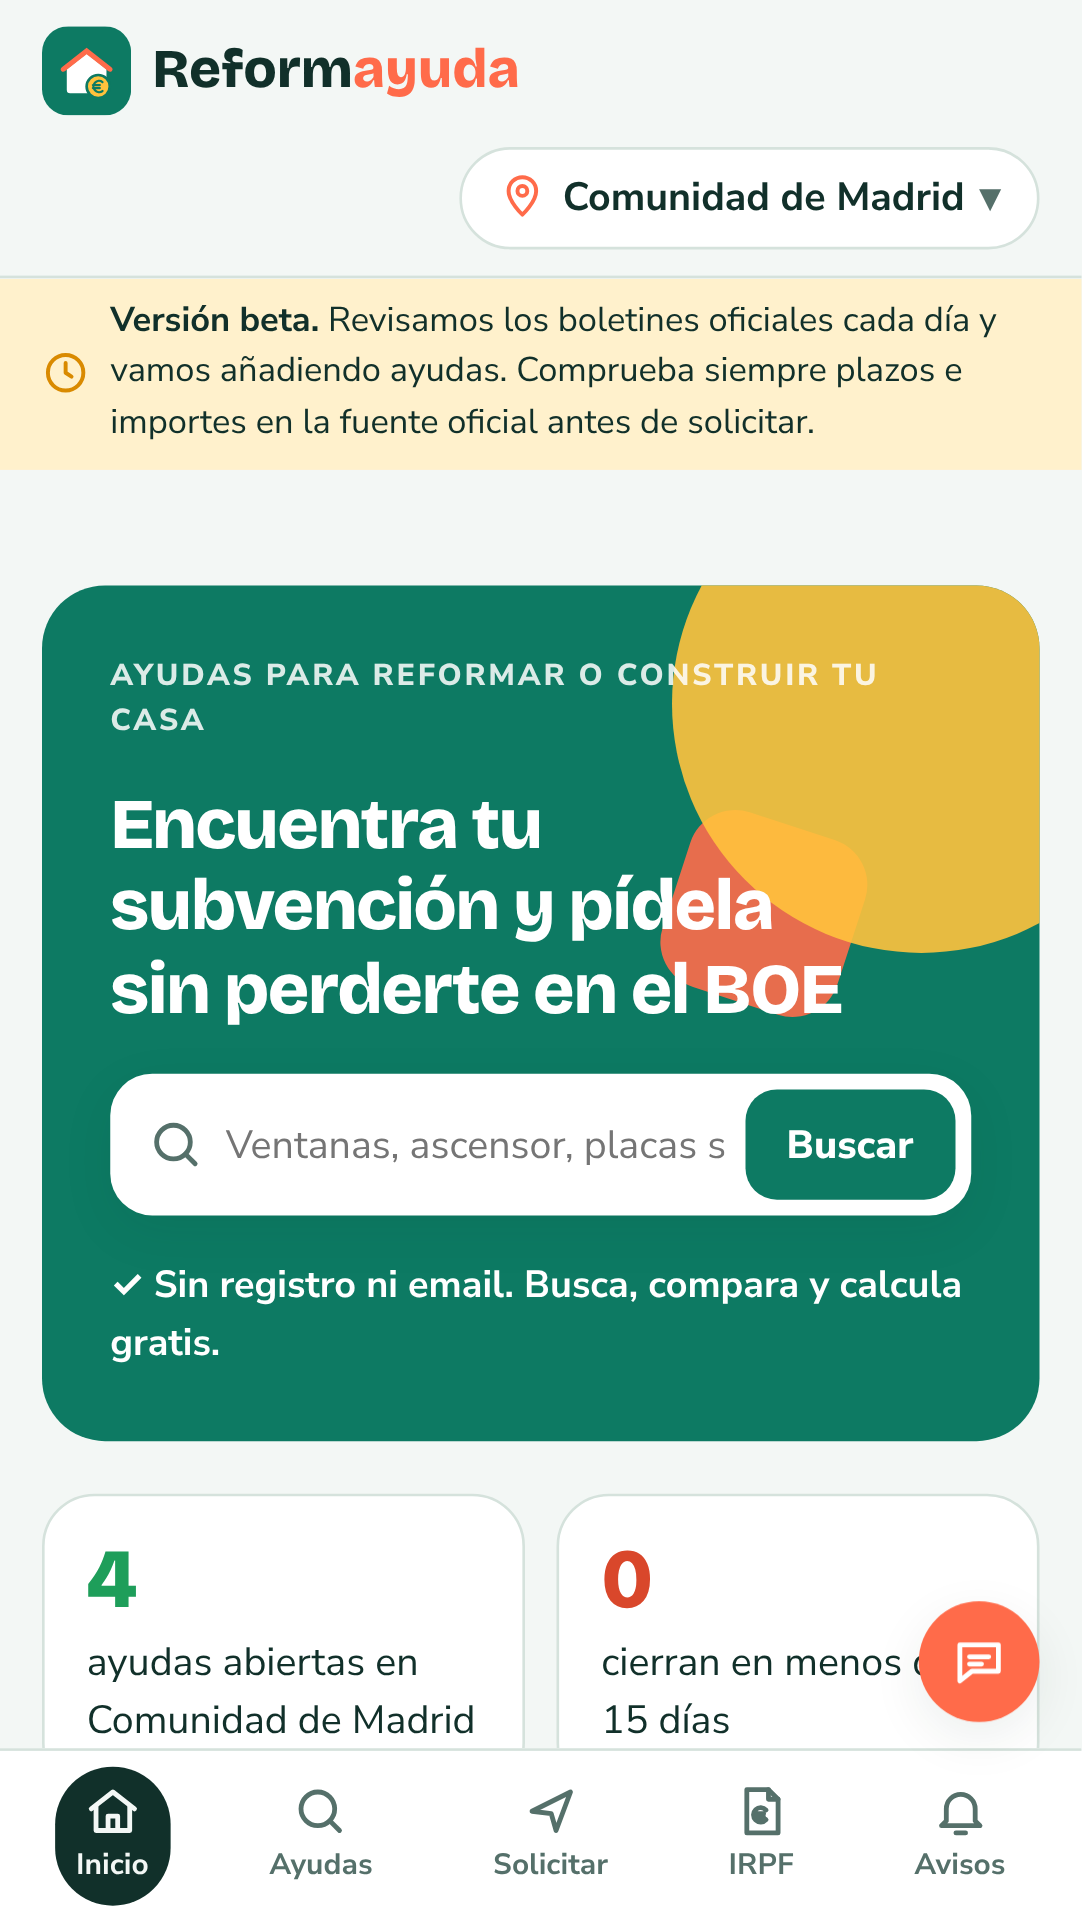
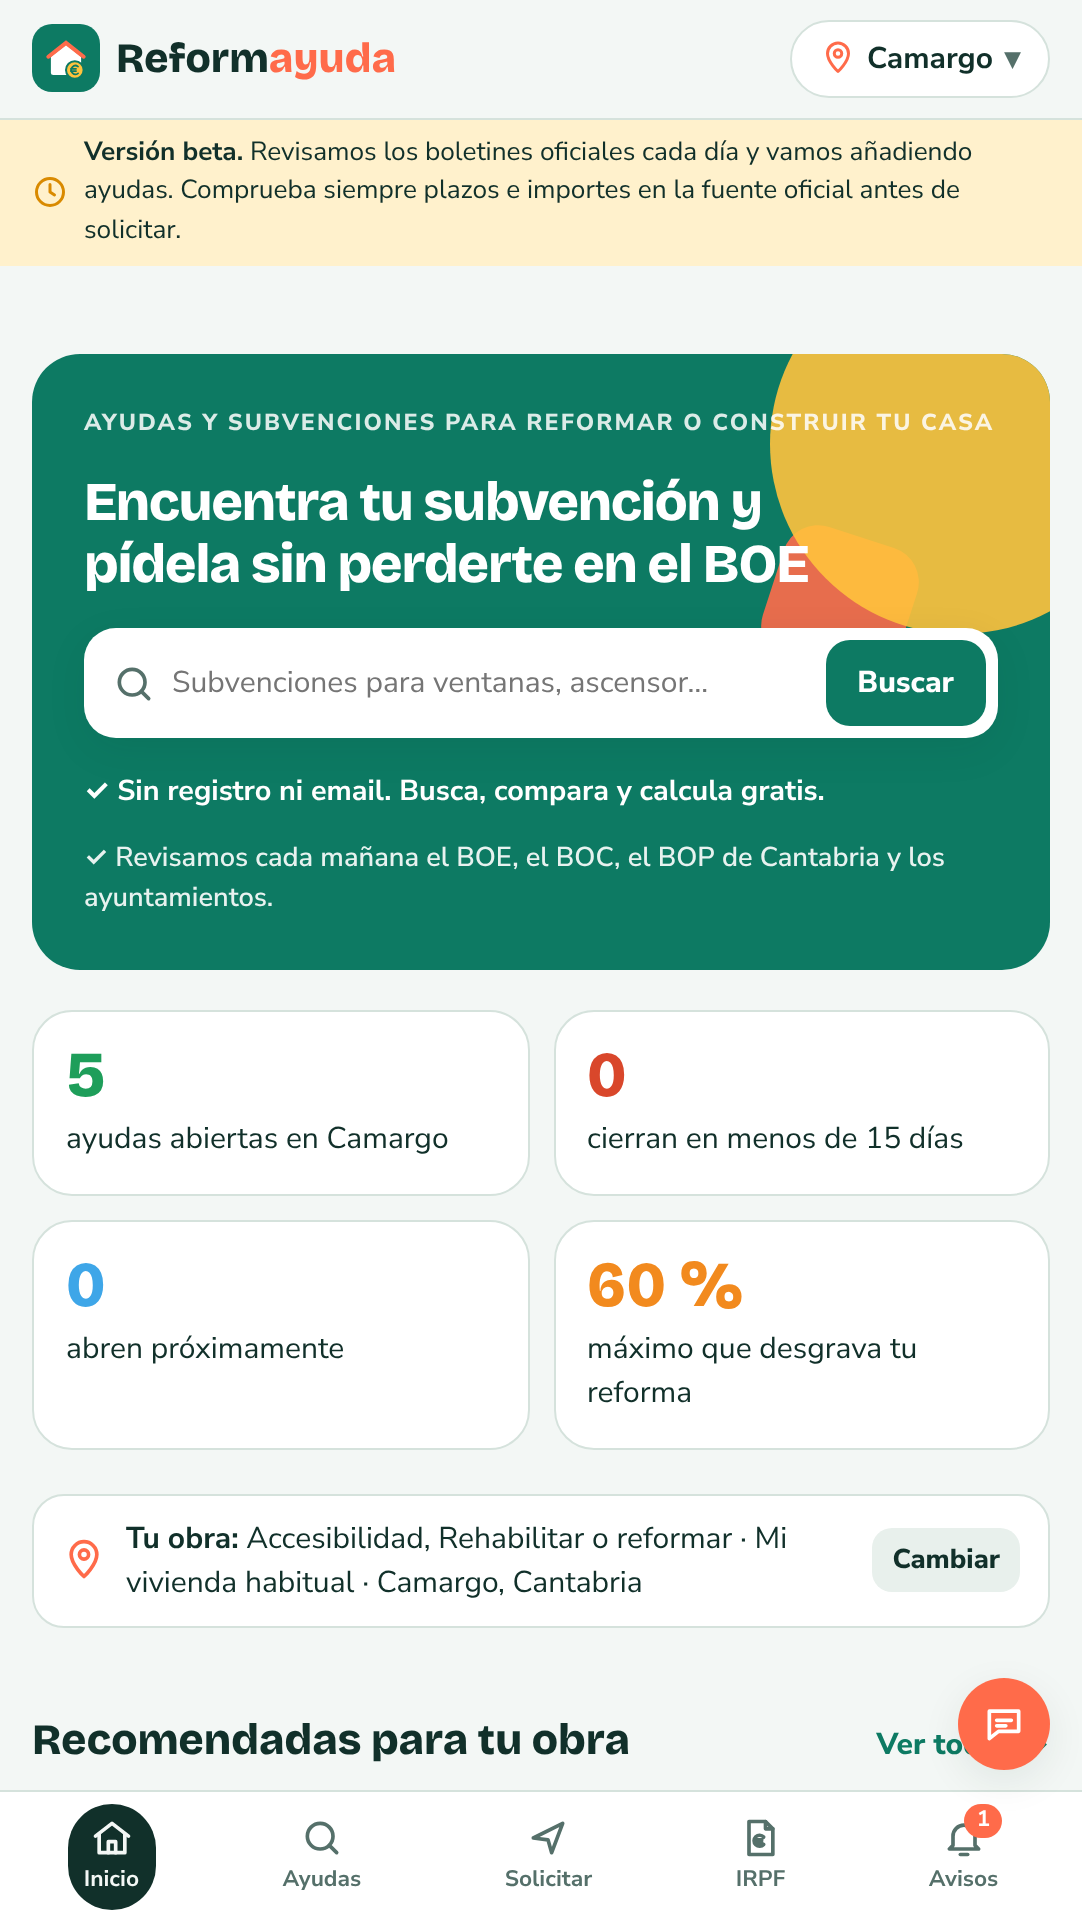
Capturas de Google Play rehechas con la versión actual (7)
Claude-Session: https://claude.ai/code/session_01G6ky4ybwcZDR3Va4Xfnm5f

diff --git a/docs/google-play/ficha.md b/docs/google-play/ficha.md
@@ -55,14 +55,13 @@ Contacto: contacto@reformayuda.es · reformayuda.es
 | Público objetivo | Mayores de 18 años |
 | Icono (512 × 512) | `web/icons/icon-512.png` |
 | Gráfico de funciones (1024 × 500) | `docs/google-play/grafico-1024x500.png` |
-| Capturas de teléfono | `docs/google-play/capturas/` (6 imágenes de 1082 × 1922) |
+| Capturas de teléfono | `docs/google-play/capturas/` (7 imágenes de 1082 × 1922) |
 
 ## Capturas, en este orden
-1. `1-inicio.png`: inicio con buscador y resumen de tu zona
+1. `1-inicio.png`: inicio con buscador y resumen de tu zona (Camargo, Cantabria)
 2. `2-test.png`: test inicial para personalizar
-3. `3-buscador.png`: buscador con filtros
-4. `4-ficha.png`: ficha de una ayuda
+3. `3-buscador.png`: lista de ayudas con las que encajan contigo
+4. `4-ficha.png`: ficha de una ayuda con importe, plazo y calendario
 5. `5-irpf.png`: calculadora de la deducción del IRPF
 6. `6-chat.png`: asistente de dudas
-
-Cuando haya más ayudas publicadas, conviene repetir las capturas para que el buscador se vea más lleno.
+7. `7-avisos.png`: avisos y notificaciones en el móvil
